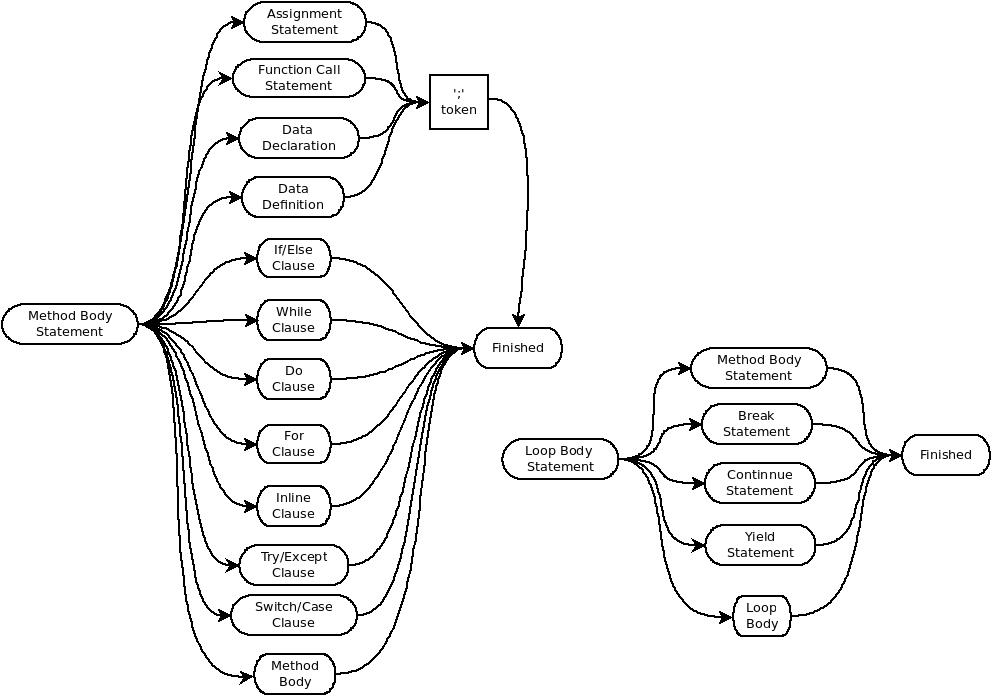
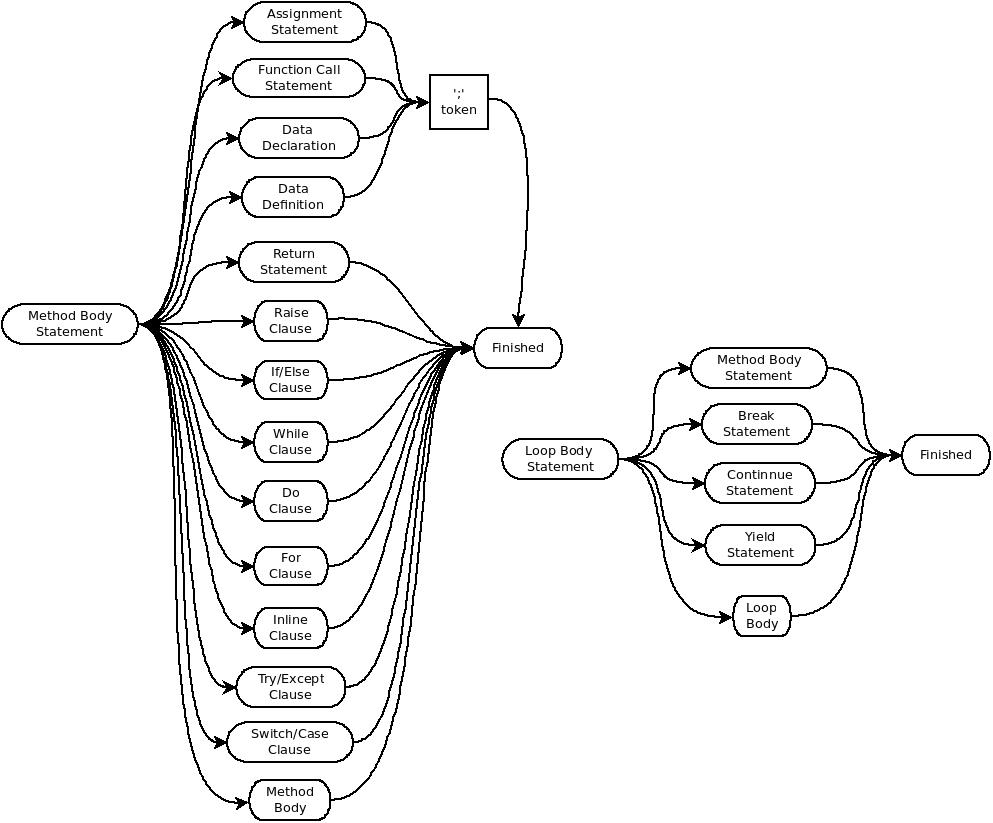
Finish up the documentation

Changed region(s): [[0.0, 0.0, 0.999, 1.0], [0.718, 0.8436, 0.8117, 0.9039], [0.3746, 0.3314, 0.4058, 0.3615]]

diff --git a/README.md b/README.md
@@ -78,9 +78,92 @@ A method definition is exactly that. These diagrams do not cover the rules for d
 
 ![try-except-clause](docs/pics/try-except-clause.jpg)
 
+![return-statement](/home/chuck/Src/plang/docs/pics/return-statement.jpg)
+
 ![switch-case-clause](docs/pics/switch-case-clause.jpg)
 
 ![expressions](docs/pics/expressions.jpg)
 
 
 
+## Constructors and Destructors
+
+Constructors and destructors, as one would expect, are called automatically when a class is created or destroyed.  There is a default constructor and destructor that is always implemented for a class and these are always called when a class is created or destroyed. There is no need to declare the default methods, but they may be declared for clarity. if desired.
+
+### Constructor
+
+The default constructor accepts no parameters and it is always called before any user-defined constructor in the same context. The default constructor creates any inherited classes and applies default values to any class attributes. For example, strings are initialized to zero length and ints are given a value of zero. If a different value is desired, then a constructor with no parameters can be declared and implemented. This is treated the same as any other override constructor. As with regular methods, the constructor may be overloaded by parameter types. Overloaded constructors must be declared in the class declaration. These constructors must be called explicitly but providing parameters to the creation call to the class. For example:
+
+```c++
+import imp1;
+    
+class class1(imp1.clas0) {
+  public int var1;
+  constructor(int);
+}
+
+class1.constructor(var) {
+    var1 = var;
+    imp1.clas0.constructor(123, "a string");
+}
+
+class class2 {
+  public int meth();
+}
+
+class2.meth() {
+    class1 cls = class1(0x123);
+    return(0);
+}
+```
+
+In the above example, the default constructor for ```class1``` is called, which sets ```var1``` to zero, then the override is called, which sets ```var1``` to ```0x123``` after casting it to an ```int```.  When an override constructor is declared, but not implemented, a syntax error is generated. 
+
+### Destructor
+
+The default destructor is normally all that is required, since the garbage collector should destroy any unreachable memory. However, a destructor may be declared and implemented. This destructor will be called after the default constructor as one would expect. If there is a declaration for a destructor but there is no implementation, then a warning is issued. Destructors accept no parameters and return no value, so they may not be overridden. Multiple declarations or implementations of destructors are a syntax error. 
+
+## Exception Handling
+
+Exceptions are simplified and only allow for a string to be sent to the handler. The ```raise``` keyword accepts a single parameter of a formatted string. This is aimed at reporting errors more than actually trying to fix them. So exceptions in **Plang** are an error handling mechanism and not a flow control mechanism.  All of the usual signals in a UNIX-like environment are handled as exceptions and a reasonable string string is generated for them. For things like errors when opening files, the runtime code generates an exception and an appropriate string and raises the exception. 
+
+Example:
+
+```c++
+class cls1 {
+    int x; // private
+    int y; // private
+    public int meth1();
+    public void meth2();
+}
+
+cls1.meth1() {
+    if(x nequ y) {
+        raise("x and y are not equal");
+    }
+    else {
+        raise("x and y are equal");
+    }
+    return(x+y);
+}
+
+cls.meth2() {
+    try {
+        x = 1;
+        y = 0;
+        meth1();
+    }
+    except(m) {
+        // prints "x and y are not equal"
+        print(m);
+    }
+}
+```
+
+## Map, Dict, and List
+
+These data structures are pseudo-classes. They cannot be inherited, but they do have methods that can be called on them. These methods are **TBD**.
+
+## More information
+
+See the tests directory for example syntax.
